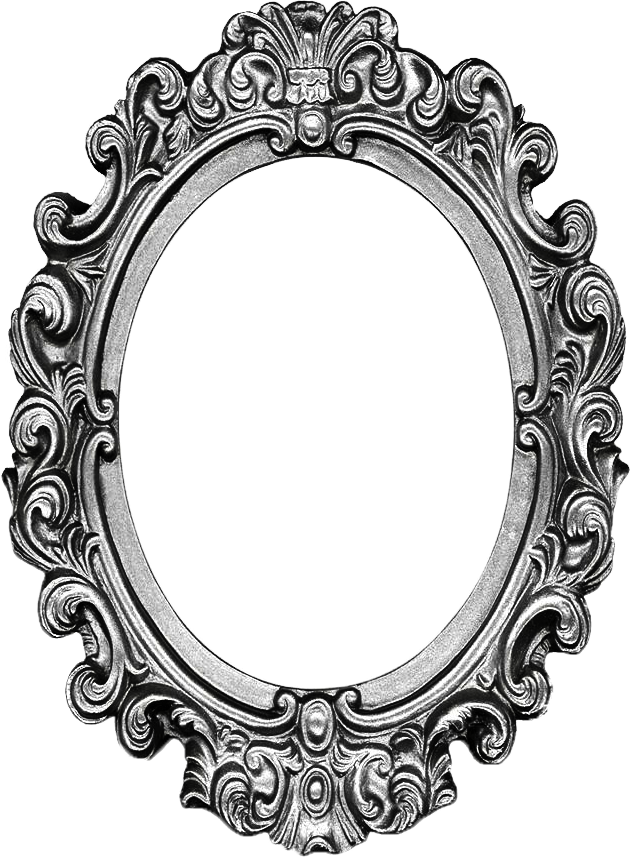
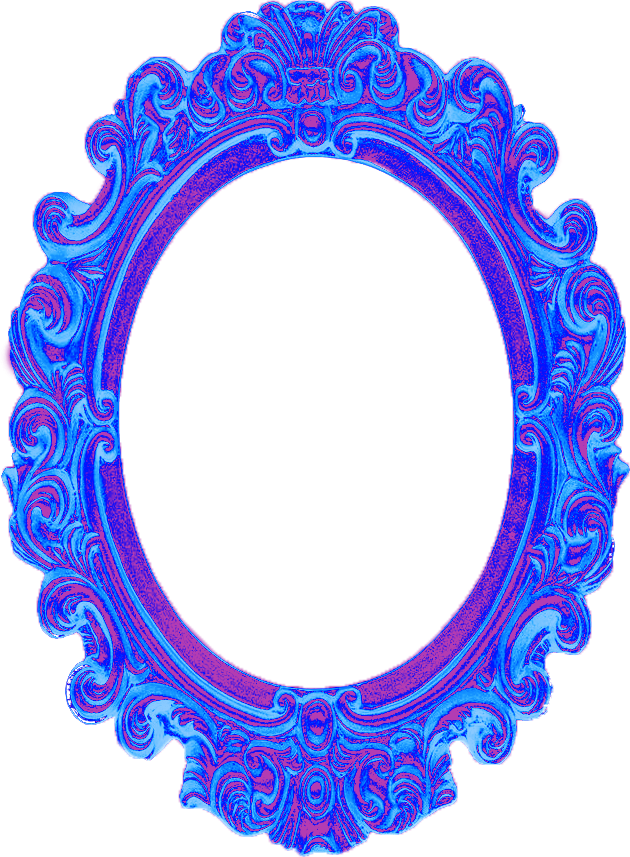
update

diff --git a/index.html b/index.html
@@ -4,11 +4,24 @@
         <meta charset="utf-8" />
         <meta name="viewport" content="width=device-width, initial-scale=1, shrink-to-fit=no">
         <title>self-recommend展</title>
+
+        <script>
+            var imgArray = new Array();
+            imgArray[0] = "./images/bg.png";
+            imgArray[1] = "./images/bg2.png";
+            
+            function showImage(){
+                var imgNum = Math.round(Math.random());
+                var objImg = document.getElementById("mirror_img");
+                objImg.src = imgArray[imgNum];
+            }
+        </script>
+
     </head>
 
-    <body>
+    <body onload="showImage()">
         <div class="exhibition_img">
-            <img src="./images/bg.png" class="fixed">
+            <img id="mirror_img" class="fixed">
         </div>
 
         <div id="exhibition_date" class="vertical-text-right">
